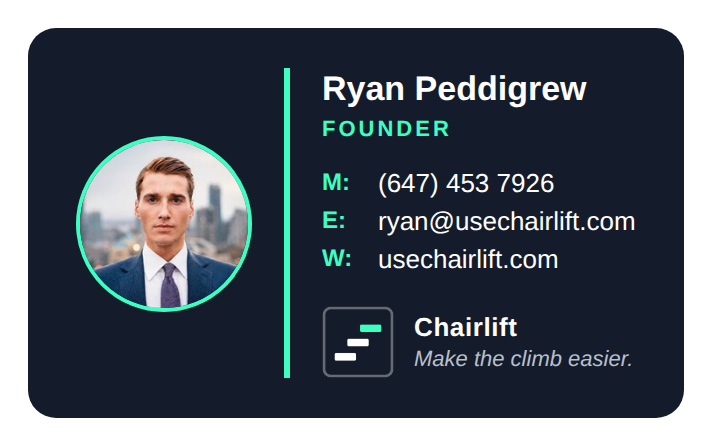
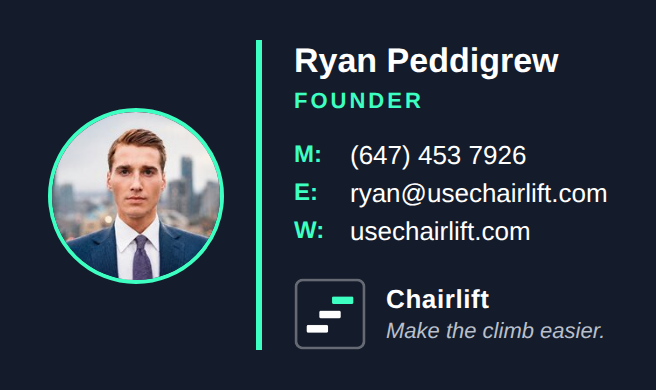
Square corners on the Ink email signature so no white shows
Claude-Session: https://claude.ai/code/session_01PqypBjMi1UyX8TYwUtHGTE

diff --git a/brand/index.html b/brand/index.html
@@ -242,6 +242,7 @@
   <div class="wrap">
     <div class="sec-head"><h2>Change log</h2><p>Every brand decision, newest first.</p></div>
     <ul class="log">
+      <li><b>Oct 4, 2026</b>: Ink email signature now has square corners, so no white shows at the corners.</li>
       <li><b>Oct 4, 2026</b>: Signature refined: larger logo icon with "Chairlift" and an italic "Make the climb easier." beneath it; contact labels shown as M: / E: / W:; phone written as (647) 453 7926.</li>
       <li><b>Oct 4, 2026</b>: Email signature finalised in White and Ink versions: Neon ring on headshot, "Founder" on its own line, M / E / W contact rows, phone added.</li>
       <li><b>Oct 4, 2026</b>: Colour names set: <b>Chairlift Neon</b> (#3DFFC1) and <b>Midnight Ink</b> (#141B2A).</li>

diff --git a/brand/email-signature-ink.html b/brand/email-signature-ink.html
@@ -7,7 +7,7 @@
 <body style="margin:0;padding:24px;background:#ffffff;">
 <!-- Copy everything between the START and END markers into your email signature -->
 <!-- START SIGNATURE -->
-<table cellpadding="0" cellspacing="0" border="0" role="presentation" bgcolor="#141B2A" style="border-collapse:separate;background:#141B2A;border-radius:14px;font-family:Helvetica,Arial,sans-serif;">
+<table cellpadding="0" cellspacing="0" border="0" role="presentation" bgcolor="#141B2A" style="border-collapse:separate;background:#141B2A;font-family:Helvetica,Arial,sans-serif;">
   <tr>
     <td style="padding:20px 24px;">
       <table cellpadding="0" cellspacing="0" border="0" role="presentation" style="border-collapse:collapse;">

diff --git a/tools/signature.py b/tools/signature.py
@@ -11,7 +11,7 @@ def sig(dark):
     tag   = "#B9C0CC" if dark else "#55595F"
     logo  = "email-logo-dark.png" if dark else "email-logo.png"
     pad   = "20px 24px" if dark else "0"
-    box   = (f'bgcolor="{bg}" style="border-collapse:separate;background:{bg};border-radius:14px;font-family:Helvetica,Arial,sans-serif;"'
+    box   = (f'bgcolor="{bg}" style="border-collapse:separate;background:{bg};font-family:Helvetica,Arial,sans-serif;"'
              if dark else 'style="border-collapse:collapse;font-family:Helvetica,Arial,sans-serif;"')
     title = "Ink" if dark else "White"
     row = lambda l, href, val: (f'<tr><td style="width:22px;padding:0 6px 0 0;font-size:12px;line-height:19px;font-weight:bold;color:{label};">{l}:</td>'
